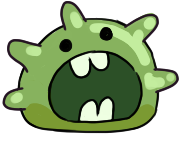
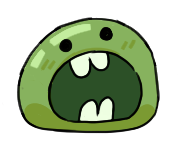
초록 적이 투사체를 쏠 때 공격 애니메이션을 하도록 했음
- 초록 적만 공격 애니메이션의 끝에 공격 애니메이션을 끝내도록 했음

diff --git a/Scripts/Enemy.cs b/Scripts/Enemy.cs
@@ -174,8 +174,7 @@ public class Enemy : EnemyBase
 
         GameObject cannonBall = Instantiate(enemyProjectile, transform.position, Quaternion.identity);
         cannonBall.GetComponentInChildren<IEnemyProjectile>().InitProjectileDamage(Stats.rangedDamage);
-        Debug.LogError($"데미지 = {Stats.rangedDamage}");
-        
+        anim.SetBool("Attack", true); // 초록이의 공격 애니메이션 끝에 false로 만듬  
 
         // enemyProjectile의 damage값을 _damage 값으로 초기화 시키기
         // EnemyProjectile proj = projectile.GetComponent<EnemyProjectile>();
@@ -214,11 +213,17 @@ public class Enemy : EnemyBase
         return false;
     }
 
+    #region 애니메이션 이벤트
+    public void SetAttackAnimDone()
+    {
+        anim.SetBool("Attack", false);
+    }
+    #endregion
 
     #region Shadow Height에서 사용하기 위한 함수들
     public void ActivateCollider(bool activateCol)
     {
-        colEnemy.enabled= activateCol;
+        colEnemy.enabled = activateCol;
     }
 
     // 점프를 위해 매프레임마다 수평 이동 속도가 필요하다
